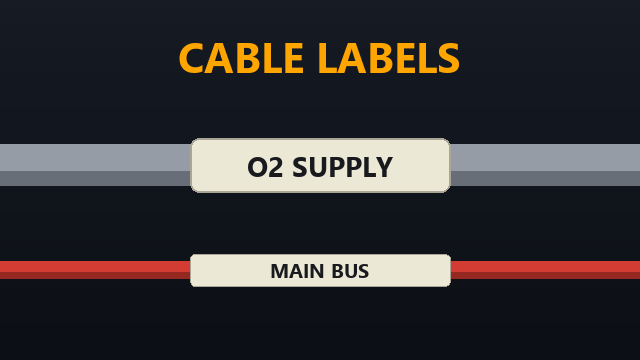
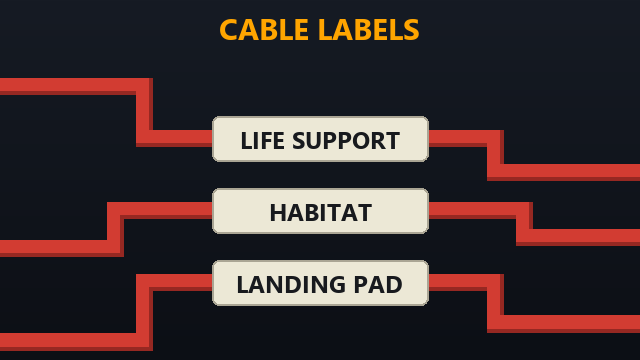
Redraw the About images as a labelled cable bundle
Five power runs in the player colour convention (orange generation, purple
batteries, red the rest) enter and leave at different heights with square
bends and run parallel through the middle, so their labels stack in one
column. The thumbnail keeps only the three red runs, which stay readable
at its size.

Assisted-by: Claude:claude-opus-5-5

diff --git a/tools/make_images.py b/tools/make_images.py
@@ -4,9 +4,14 @@ LaunchPad needs both to register the mod. Run from the repo root:
 
     python tools/make_images.py
 
-Needs Pillow. The picture is a pipe with its pipe label above a cable with the thinner cable
-label, each label reading its name. Keep small print out of it: the Mod Info tab shows it about
-125 px wide.
+Needs Pillow. The picture is a bundle of power cables, each with a label: they come in from
+different places on the left, run parallel through the middle so the labels stack in a tidy
+column, and leave at different places on the right. Bends are square, as cables are in game.
+
+Colours follow the player convention: orange for power generation, purple for battery
+connections, red for everything else (grey would be data only). Preview.png has all five
+runs; thumb.png only the three red ones, since five labels are unreadable that small. Even
+Preview.png is shown about 125 px wide on the Mod Info tab, where only the shapes read.
 """
 
 from pathlib import Path
@@ -18,14 +23,32 @@ FONT_DIRS = [Path("C:/Windows/Fonts"), Path("/usr/share/fonts/truetype/dejavu")]
 
 BG_TOP = (22, 27, 36)
 BG_BOTTOM = (12, 15, 21)
-PIPE = (150, 156, 165)
-PIPE_DARK = (104, 110, 120)
-CABLE = (210, 60, 50)
-CABLE_DARK = (150, 40, 34)
 LABEL = (236, 232, 214)
 LABEL_EDGE = (170, 165, 148)
 INK = (24, 26, 30)
 AMBER = (255, 165, 0)
+
+ORANGE = ((236, 134, 36), (170, 92, 20))
+PURPLE = ((150, 86, 206), (100, 54, 146))
+RED = ((210, 60, 50), (150, 40, 34))
+
+# (label, colour, where it enters on the left, where it leaves on the right), top to bottom
+# in the bundle. Entry and exit heights are fractions of the image height. Each list keeps
+# the bundle's order on both sides, so no two runs cross, and puts every end at least ~0.07
+# from its bundle height (Preview: 0.277, 0.431, 0.585, 0.739, 0.893; thumb: 0.385, 0.585,
+# 0.785), so every bend reads as a bend.
+FIVE = [
+    ("SOLAR FARM", ORANGE, 0.17, 0.20),
+    ("BATTERIES", PURPLE, 0.36, 0.51),
+    ("LIFE SUPPORT", RED, 0.50, 0.66),
+    ("HABITAT", RED, 0.82, 0.81),
+    ("LANDING PAD", RED, 0.96, 0.955),
+]
+THREE = [
+    ("LIFE SUPPORT", RED, 0.24, 0.48),
+    ("HABITAT", RED, 0.69, 0.66),
+    ("LANDING PAD", RED, 0.95, 0.90),
+]
 
 
 def font(size, bold=False):
@@ -41,47 +64,64 @@ def font(size, bold=False):
     return ImageFont.load_default()
 
 
-def run(draw, w, y, thick, light, dark):
-    """A horizontal pipe or cable across the whole width, centred on y."""
-    draw.rectangle([0, y - thick / 2, w, y + thick / 2], fill=light)
-    draw.rectangle([0, y + thick / 6, w, y + thick / 2], fill=dark)
+def cable(draw, points, thick, colours):
+    """A run through points with square corners: dark underneath, light offset up and left,
+    so each cable keeps a shaded lower or right edge."""
+    light, dark = colours
+    shade = thick / 4
+    for colour, off, t in ((dark, 0, thick), (light, -shade / 2, thick - shade)):
+        for (x0, y0), (x1, y1) in zip(points, points[1:]):
+            h = t / 2
+            draw.rectangle([min(x0, x1) - h + off, min(y0, y1) - h + off,
+                            max(x0, x1) + h + off, max(y0, y1) + h + off], fill=colour)
 
 
-def sleeve(draw, cx, y, length, thick, text, size):
-    """A label sleeve wrapped round a run, with its text."""
-    box = [cx - length / 2, y - thick / 2, cx + length / 2, y + thick / 2]
-    draw.rounded_rectangle(box, radius=thick / 6, fill=LABEL, outline=LABEL_EDGE,
-                           width=max(1, int(thick / 20)))
-    f = font(size, bold=True)
-    draw.text((cx, y), text, font=f, fill=INK, anchor="mm")
-
-
-def render(w, h):
+def render(w, h, runs):
     img = Image.new("RGB", (w, h))
     draw = ImageDraw.Draw(img)
     for row in range(h):
         t = row / (h - 1)
         draw.line([(0, row), (w, row)],
                   fill=tuple(int(a + (b - a) * t) for a, b in zip(BG_TOP, BG_BOTTOM)))
-    s = w / 1280
 
-    draw.text((w / 2, 110 * s), "CABLE LABELS", font=font(int(84 * s), bold=True),
+    title = int(h * 0.085)
+    draw.text((w / 2, h * 0.075), "CABLE LABELS", font=font(title, bold=True),
               fill=AMBER, anchor="mm")
 
-    pipe_y, pipe_t = 330 * s, 110 * s
-    run(draw, w, pipe_y, pipe_t * 0.75, PIPE, PIPE_DARK)
-    sleeve(draw, w / 2, pipe_y, 520 * s, pipe_t, "O2 SUPPLY", int(56 * s))
+    # The bundle: evenly spaced, centred in the space under the title.
+    top, bottom = h * 0.20, h * 0.97
+    pitch = min((bottom - top) / len(runs), h * 0.2)
+    first = (top + bottom) / 2 - pitch * (len(runs) - 1) / 2
+    label_h = pitch * 0.62
+    thick = label_h * 0.36
+    text = font(int(label_h * 0.56), bold=True)
+    label_w = max(draw.textlength(r[0], font=text) for r in runs) + label_h * 1.1
 
-    cable_y, cable_t = 540 * s, 64 * s
-    run(draw, w, cable_y, cable_t * 0.55, CABLE, CABLE_DARK)
-    sleeve(draw, w / 2, cable_y, 520 * s, cable_t, "MAIN BUS", int(40 * s))
+    # Bends: the outermost runs turn nearest the bundle, so no vertical crosses another run.
+    centre = (len(runs) - 1) / 2
+    left_bus, right_bus = w / 2 - label_w / 2 - w * 0.06, w / 2 + label_w / 2 + w * 0.06
+    step = w * 0.045
+    for i, (name, colours, y_in, y_out) in enumerate(runs):
+        y = first + i * pitch
+        reach = centre - abs(i - centre)
+        x_in = left_bus - step * (1 + reach)
+        x_out = right_bus + step * (1 + reach)
+        cable(draw, [(-thick, h * y_in), (x_in, h * y_in), (x_in, y), (x_out, y),
+                     (x_out, h * y_out), (w + thick, h * y_out)], thick, colours)
+
+    for i, (name, _, _, _) in enumerate(runs):
+        y = first + i * pitch
+        box = [w / 2 - label_w / 2, y - label_h / 2, w / 2 + label_w / 2, y + label_h / 2]
+        draw.rounded_rectangle(box, radius=label_h / 6, fill=LABEL, outline=LABEL_EDGE,
+                               width=max(1, int(label_h / 20)))
+        draw.text((w / 2, y), name, font=text, fill=INK, anchor="mm")
     return img
 
 
 def main():
     about = ROOT / "About"
-    render(1280, 720).save(about / "Preview.png", optimize=True)
-    render(640, 360).save(about / "thumb.png", optimize=True)
+    render(1280, 720, FIVE).save(about / "Preview.png", optimize=True)
+    render(640, 360, THREE).save(about / "thumb.png", optimize=True)
 
 
 if __name__ == "__main__":
